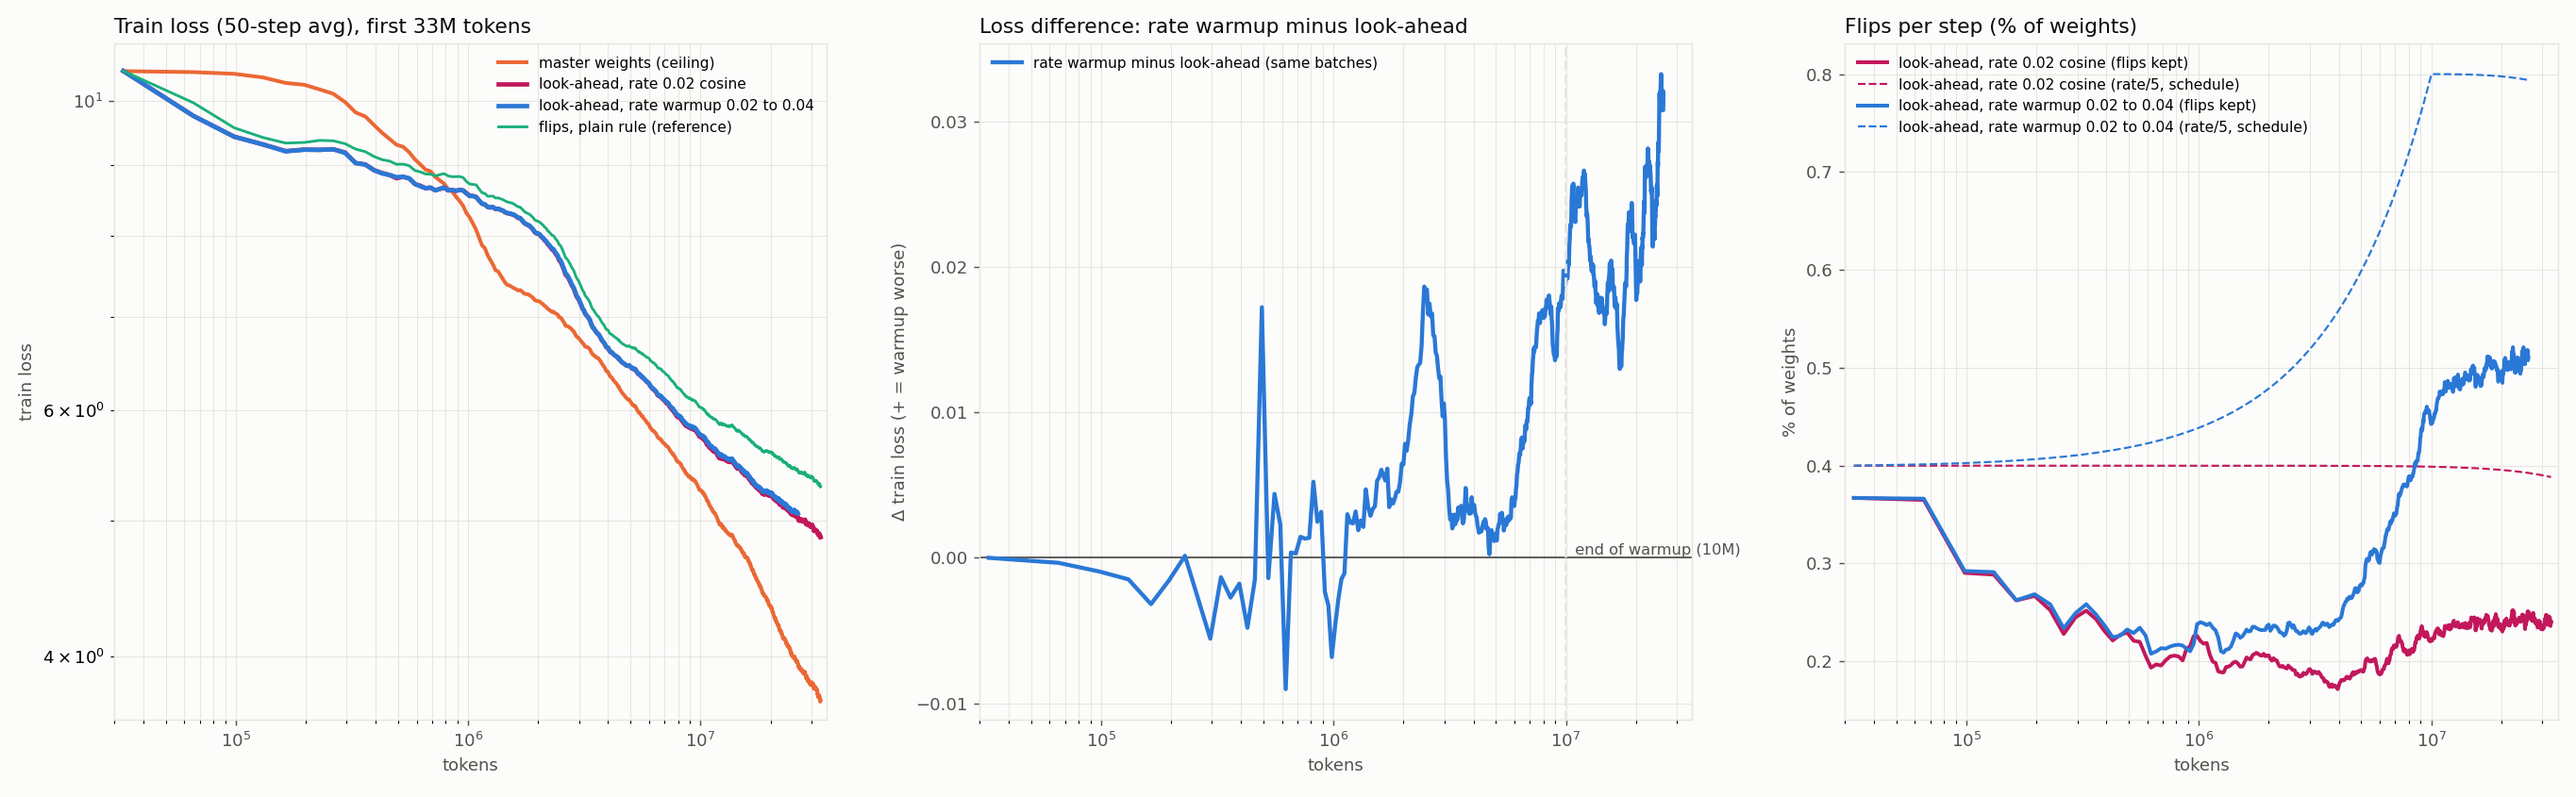
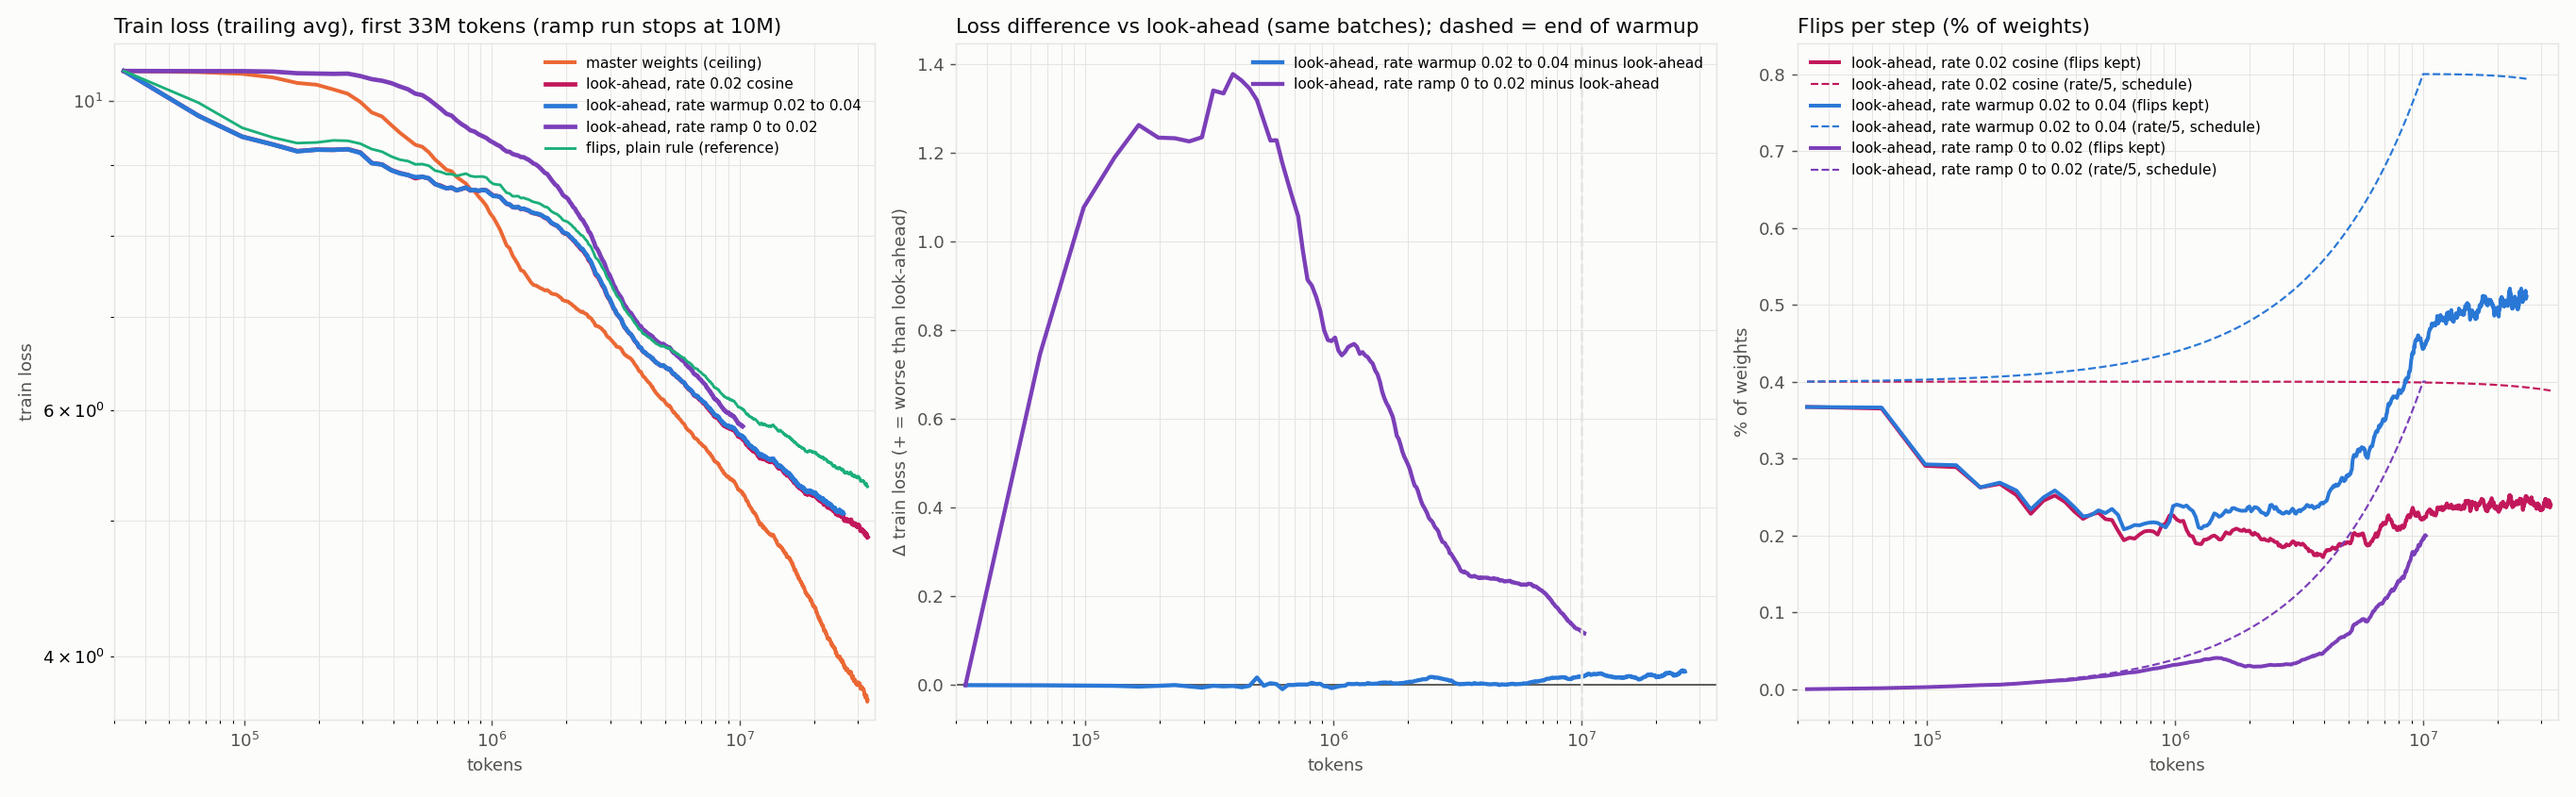
Early-phase plot: add the rate-from-zero ramp run
Claude-Session: https://claude.ai/code/session_01BnM9ozRQbpzv5q7zzVCEsn

diff --git a/plot_early.py b/plot_early.py
@@ -13,6 +13,7 @@ RUNS = [  # dir, label, color, width
     ("p2_baseline",  "master weights (ceiling)",                 "#eb6834", 2.2),
     ("armA_cos_la1", "look-ahead, rate 0.02 cosine",             "#c2185b", 2.6),
     ("la_rwarm",     "look-ahead, rate warmup 0.02 to 0.04",     "#2a78d6", 2.6),
+    ("la_r0ramp",    "look-ahead, rate ramp 0 to 0.02",          "#7b3fb8", 2.6),
     ("armA_cosine",  "flips, plain rule (reference)",            "#1baf7a", 1.6),
 ]
 MAX_STEP = 1000
@@ -43,16 +44,16 @@ for d, lab, c, lw in RUNS:
     ax1.plot(t, L, color=c, lw=lw, label=lab)
 
 # difference vs the look-ahead main run, on identical batches
-base = D["armA_cos_la1"]; w = D["la_rwarm"]
-s = sorted(set(base) & set(w))
-t = np.array([w[i]["tokens"] for i in s], float)
-diff = smooth(np.array([w[i]["loss"] - base[i]["loss"] for i in s]))
+base = D["armA_cos_la1"]
 ax2.axhline(0, color=INK2, lw=1)
-ax2.plot(t, diff, color="#2a78d6", lw=2.4, label="rate warmup minus look-ahead (same batches)")
+for d, lab, c, _ in RUNS[2:4]:
+    w = D[d]; s = sorted(set(base) & set(w))
+    t = np.array([w[i]["tokens"] for i in s], float)
+    ax2.plot(t, smooth(np.array([w[i]["loss"] - base[i]["loss"] for i in s])), color=c, lw=2.4,
+             label=lab + " minus look-ahead")
 ax2.axvline(305 * 32768, color=GRID, lw=1.5, ls="--")
-ax2.text(305 * 32768, ax2.get_ylim()[1] if False else 0.0, "  end of warmup (10M)", color=INK2, fontsize=9, va="bottom")
 
-for d, lab, c, _ in RUNS[1:3]:
+for d, lab, c, _ in RUNS[1:4]:
     s = sorted(D[d]); t = np.array([D[d][i]["tokens"] for i in s], float)
     ax3.plot(t, smooth(np.array([D[d][i].get("flip_frac", 0) * 100 for i in s]), 20), color=c, lw=2.2,
              label=lab + " (flips kept)")
@@ -60,11 +61,11 @@ for d, lab, c, _ in RUNS[1:3]:
              label=lab + " (rate/5, schedule)")
 
 ax1.set_xscale("log"); ax1.set_yscale("log"); ax1.set_xlim(3e4, 3.5e7); ax1.set_ylim(3.6, 11)
-ax1.set_title("Train loss (50-step avg), first 33M tokens", loc="left", color=INK)
+ax1.set_title("Train loss (trailing avg), first 33M tokens (ramp run stops at 10M)", loc="left", color=INK)
 ax1.set_ylabel("train loss", color=INK2)
 ax2.set_xscale("log"); ax2.set_xlim(3e4, 3.5e7)
-ax2.set_title("Loss difference: rate warmup minus look-ahead", loc="left", color=INK)
-ax2.set_ylabel("Δ train loss (+ = warmup worse)", color=INK2)
+ax2.set_title("Loss difference vs look-ahead (same batches); dashed = end of warmup", loc="left", color=INK)
+ax2.set_ylabel("Δ train loss (+ = worse than look-ahead)", color=INK2)
 ax3.set_xscale("log"); ax3.set_xlim(3e4, 3.5e7)
 ax3.set_title("Flips per step (% of weights)", loc="left", color=INK)
 ax3.set_ylabel("% of weights", color=INK2)
